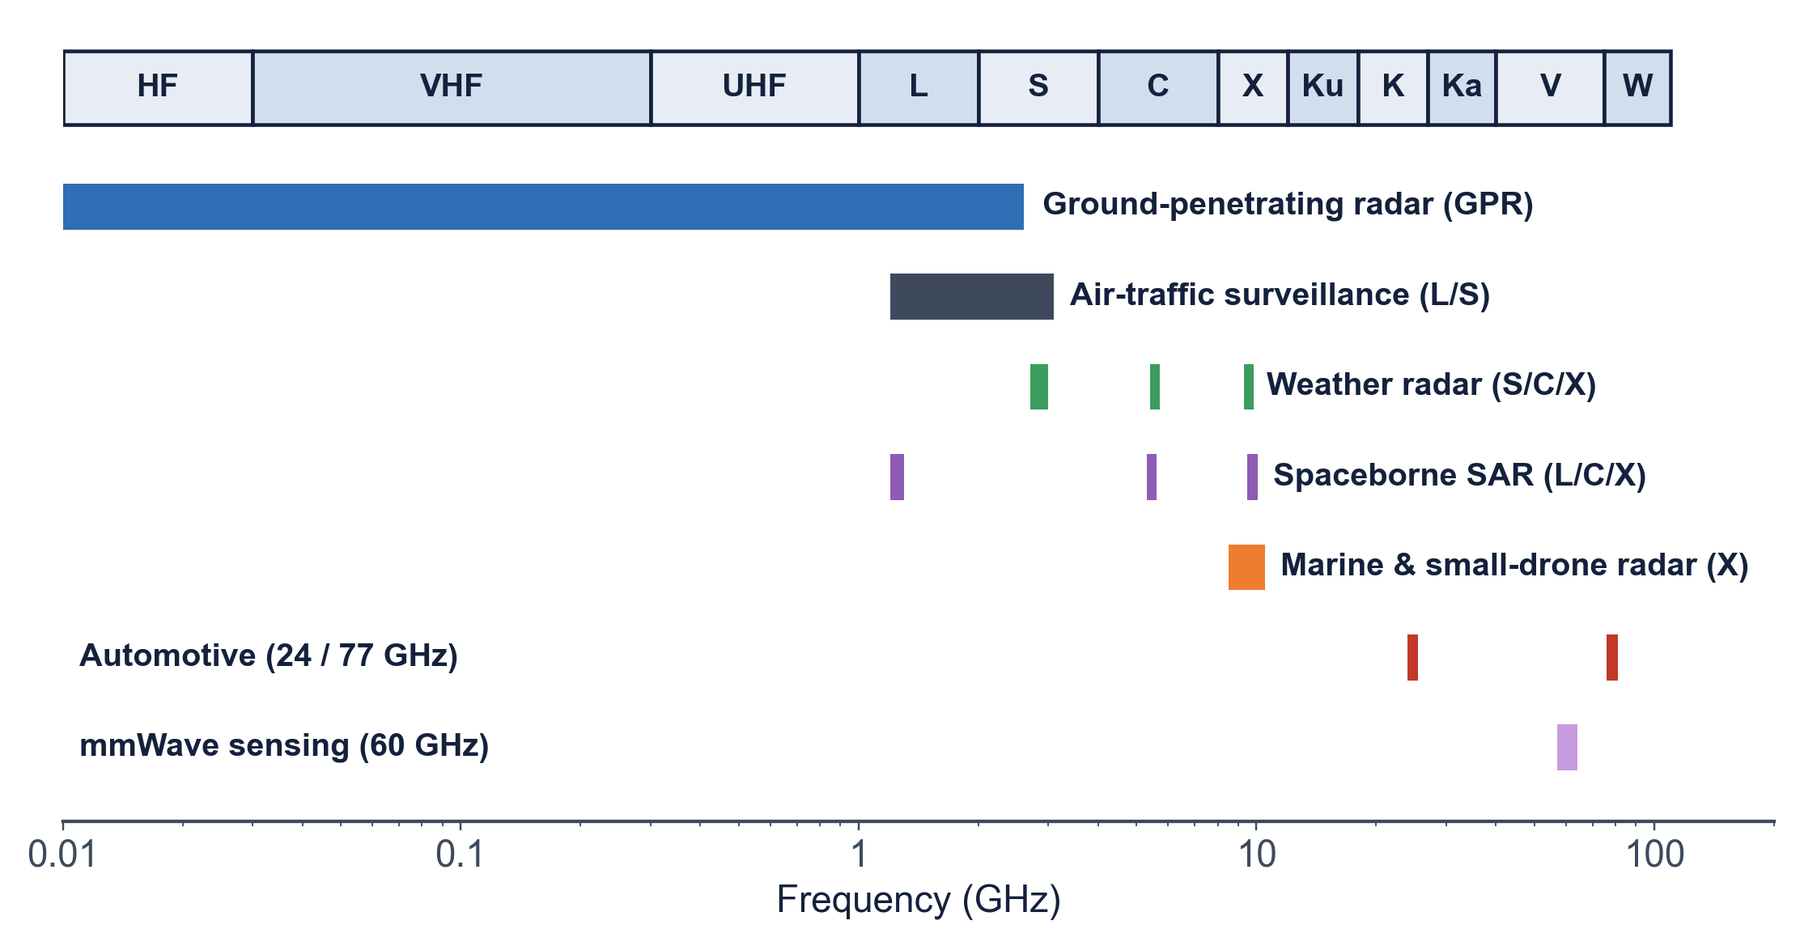
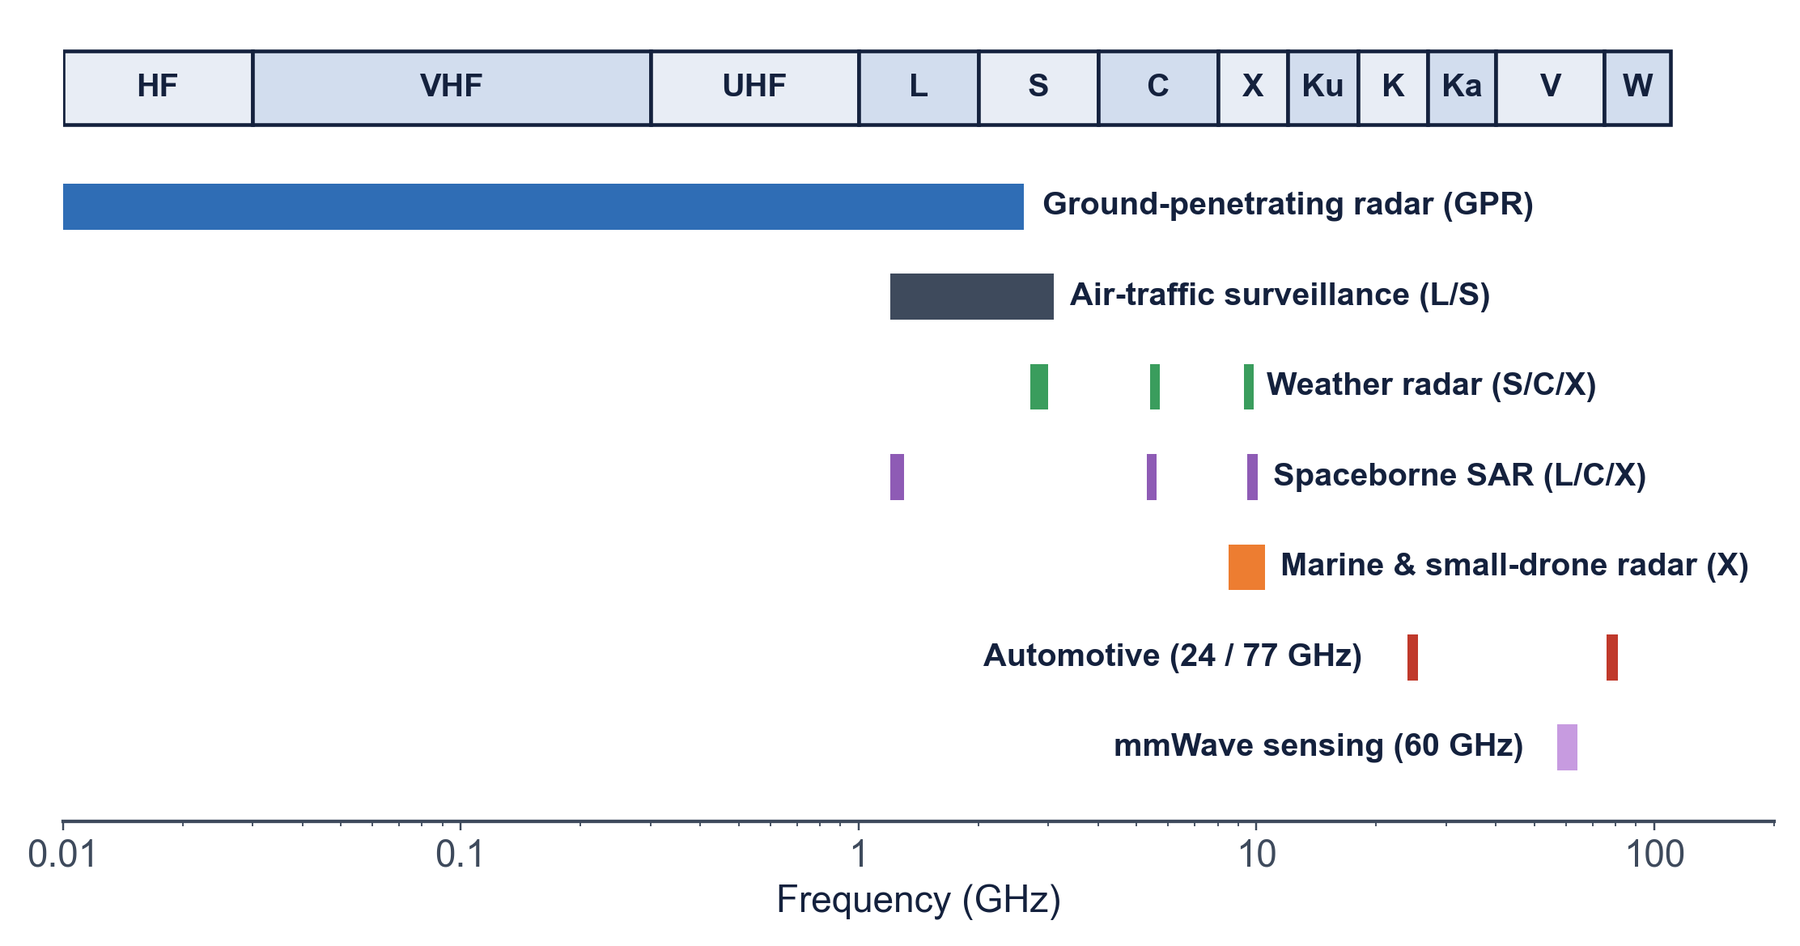
Frequency-band chart: put Automotive and mmWave labels next to their bars

diff --git a/index.html b/index.html
@@ -103,7 +103,7 @@
 <img class="pic" loading="lazy" alt="" src="assets/57baa22b9c31.webp" style="left:1058.59px;top:29.14px;width:189.41px;height:50.67px;">
 <div class="shp" style="left:21.12px;top:25.92px;width:1017.6px;height:76.8px;"><div class="tx" style="position:absolute;inset:0;display:flex;flex-direction:column;justify-content:center;padding:2.88px 9.60px 2.88px 9.60px;box-sizing:border-box;"><p style="margin:0;margin-top:0.00px;margin-bottom:8.00px;text-align:left;line-height:1.2;"><span class="" style="font-size:48.00px;color:#000000;font-weight:700;">Radar Frequency Bands</span></p></div></div>
 <div class="shp" style="left:1166.4px;top:679.68px;width:86.4px;height:28.8px;"><div class="tx" style="position:absolute;inset:0;display:flex;flex-direction:column;justify-content:flex-start;padding:4.80px 9.60px 4.80px 9.60px;box-sizing:border-box;white-space:nowrap;"><p style="margin:0;margin-top:0.00px;margin-bottom:0.00px;text-align:right;line-height:1.2;"><span class="" style="font-size:14.67px;color:#6B7585;"><span class="sn"></span></span></p></div></div>
-<img class="pic" loading="lazy" alt="" src="assets/d3fb92450f7c.webp" style="left:190.87px;top:129.6px;width:895.05px;height:470.4px;border:1px solid #D0D5DD;box-sizing:border-box;">
+<img class="pic" loading="lazy" alt="" src="assets/d3fb92450f7c.webp?v=2" style="left:190.87px;top:129.6px;width:895.05px;height:470.4px;border:1px solid #D0D5DD;box-sizing:border-box;">
 <div class="shp" style="left:43.2px;top:609.6px;width:585.6px;height:57.6px;background:#FFF2CC;"><div class="tx" style="position:absolute;inset:0;display:flex;flex-direction:column;justify-content:center;padding:4.80px 9.60px 4.80px 9.60px;box-sizing:border-box;"><p style="margin:0;margin-top:0.00px;margin-bottom:0.00px;text-align:center;line-height:1.2;"><span style="font-size:16.00px">&nbsp;</span></p></div></div>
 <div class="shp" style="left:52.8px;top:609.6px;width:566.4px;height:57.6px;"><div class="tx" style="position:absolute;inset:0;display:flex;flex-direction:column;justify-content:center;padding:2.88px 4.80px 2.88px 4.80px;box-sizing:border-box;"><p style="margin:0;margin-top:0.00px;margin-bottom:8.00px;text-align:left;line-height:1.2;"><span class="" style="font-size:21.33px;color:#14213D;font-weight:700;">Lower frequency:</span><span class="" style="font-size:21.33px;color:#14213D;"> longer range, penetrates ground</span></p></div></div>
 <div class="shp" style="left:648.0px;top:609.6px;width:585.6px;height:57.6px;background:#FFF2CC;"><div class="tx" style="position:absolute;inset:0;display:flex;flex-direction:column;justify-content:center;padding:4.80px 9.60px 4.80px 9.60px;box-sizing:border-box;"><p style="margin:0;margin-top:0.00px;margin-bottom:0.00px;text-align:center;line-height:1.2;"><span style="font-size:16.00px">&nbsp;</span></p></div></div>
